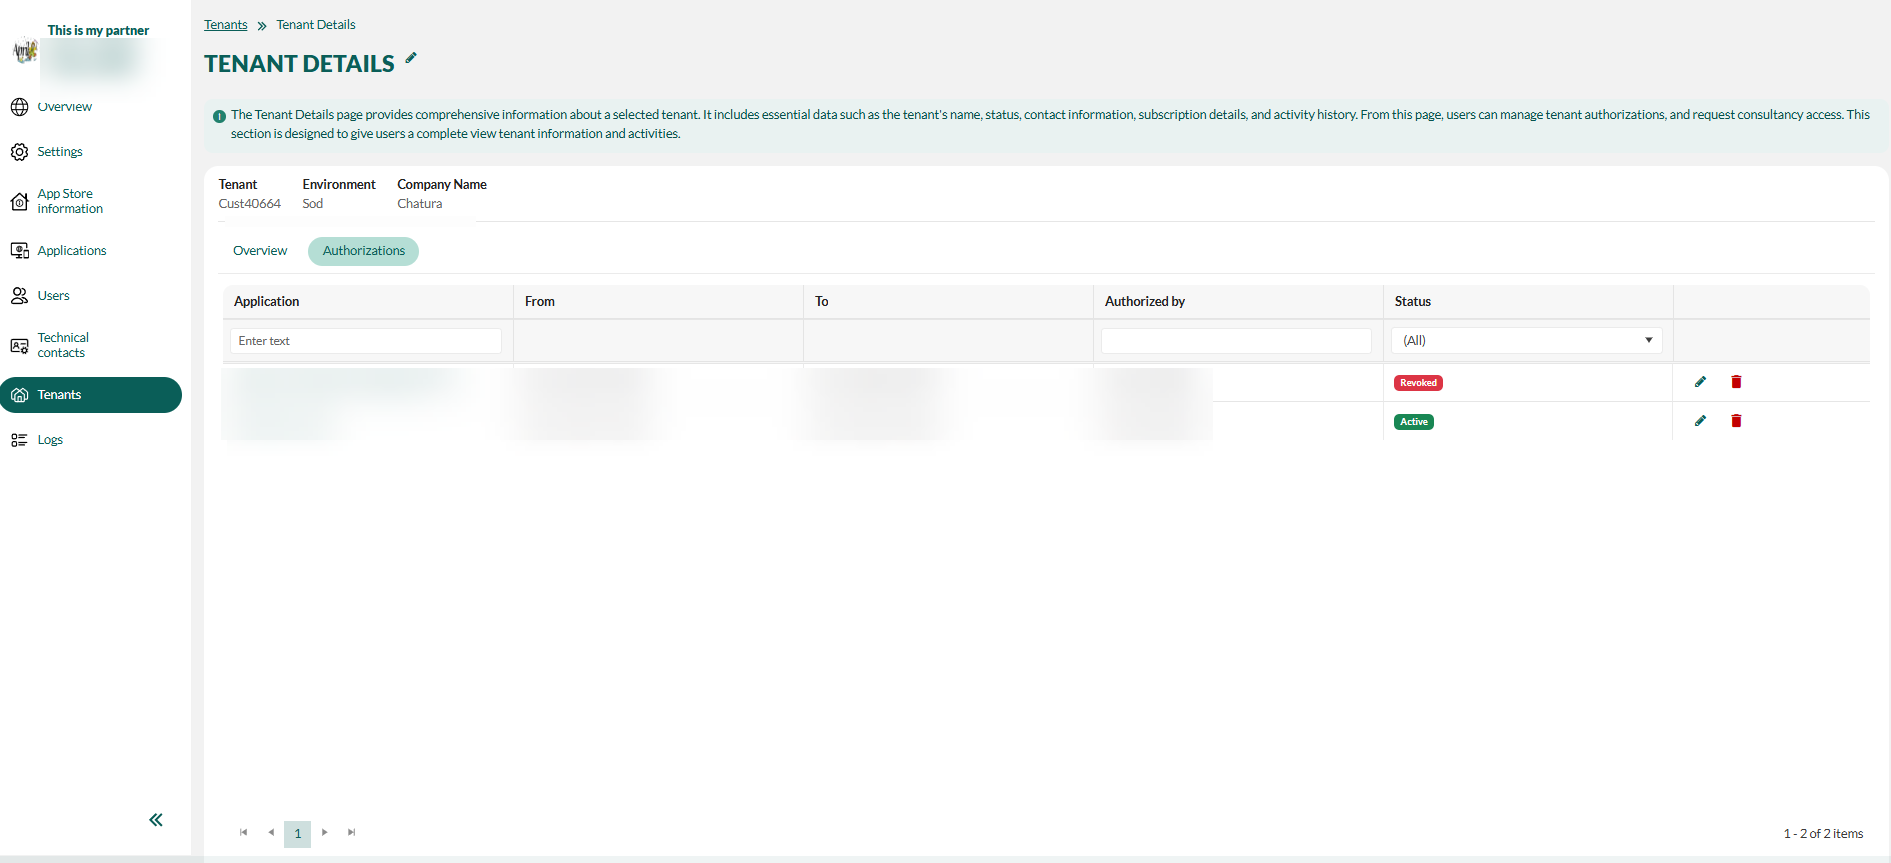
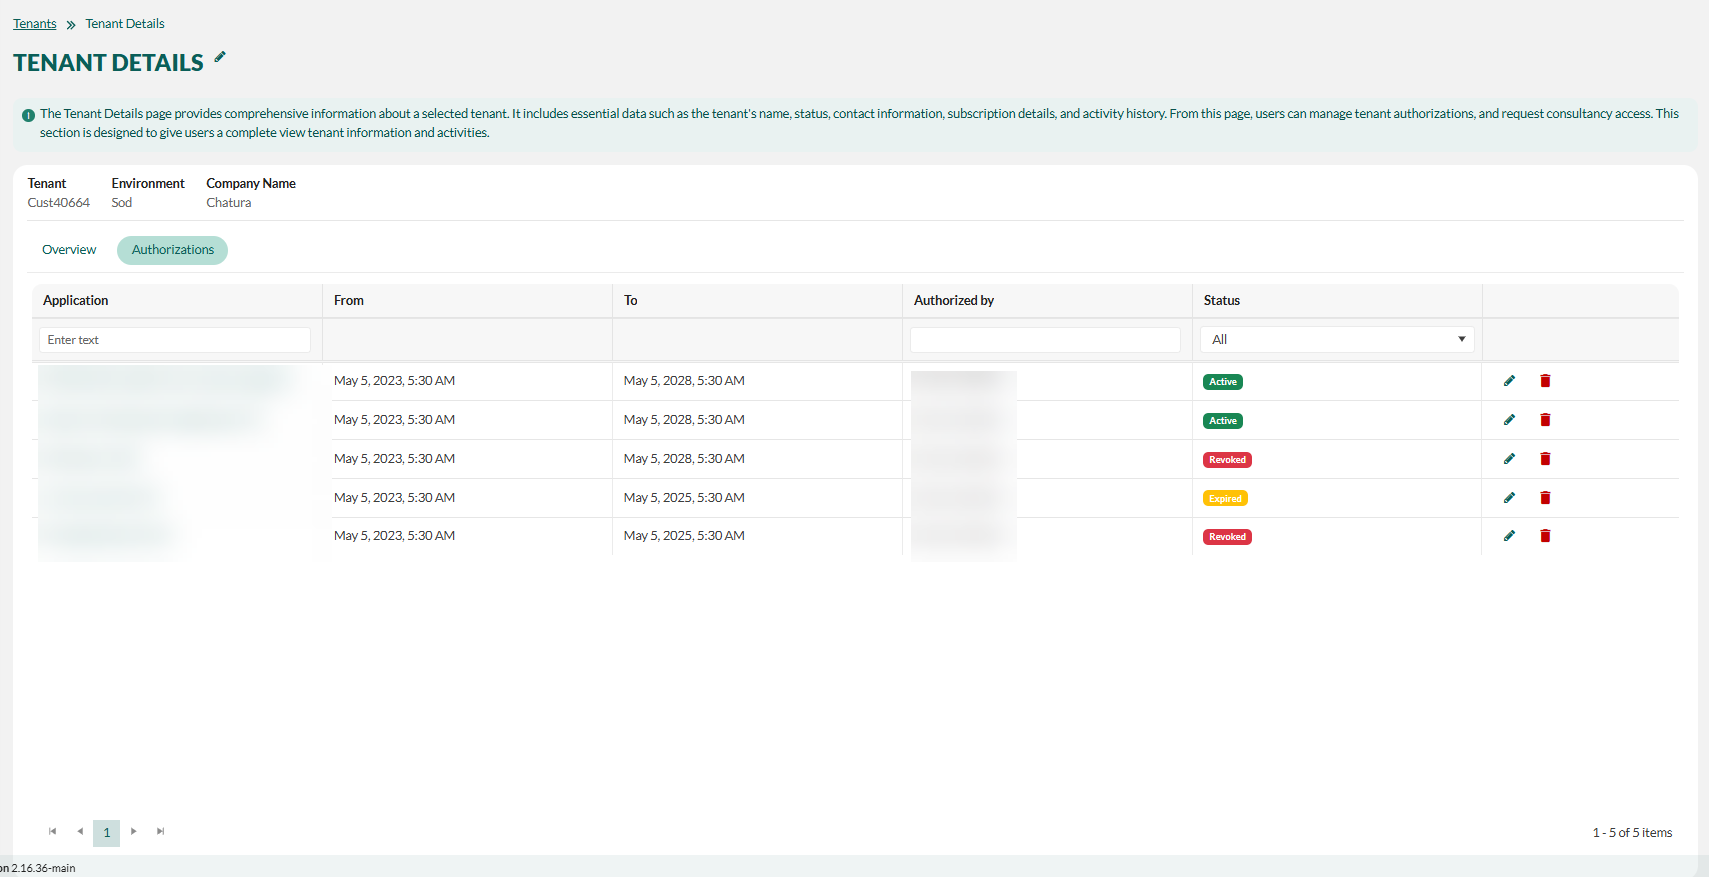
#3066 2.16: add Expired authorization status and update tenant screenshots
- Add Expired status to the authorization status table and Tenant details steps
- Correct Tenant listing description to the new Authorizations column (active/expired/revoked counts)
- Replace tenant-details and tenant-listing screenshots with live 2.16 captures

diff --git a/docs/en/developer-portal/tenants/authorization.md b/docs/en/developer-portal/tenants/authorization.md
@@ -4,7 +4,7 @@ title: Tenant authorization
 description: The Tenant Manager makes it easier to oversee and edit authorization records related to employees and tenants.
 keywords: tenant, authorization, authorize app
 author: Bergfrid Dias
-date: 07.10.2026
+date: 07.13.2026
 version_devportal: 2.16
 content_type: concept
 deployment: online
@@ -41,6 +41,7 @@ Each authorization on the **Tenant details** page has a **Status** that tells yo
 | Status | Meaning |
 |---|---|
 | **Active** | The authorization is in place and the app can access the tenant. |
+| **Expired** | The authorization's validity period has ended — the **To** date has passed. The app can no longer access the tenant until the authorization is renewed. |
 | **Revoked** | The authorization has been revoked. The connection between the app and the tenant's database is severed and the app can no longer access it. Data in the database is not removed. [Contact us][5] if you are unsure why the authorization was revoked. |
 
 To review authorization status for a tenant:
@@ -49,17 +50,17 @@ To review authorization status for a tenant:
 
 1. Select the **Authorizations** tab.
 
-1. Check the **Status** column. Use the **Status** filter above the column to show only **Revoked** or **Active** authorizations.
+1. Check the **Status** column. Each authorization is **Active**, **Expired**, or **Revoked**. Use the **Status** filter above the column to show only one status.
 
-![Tenant details Authorizations tab showing Revoked and Active status -screenshot][img4]
+![Tenant details Authorizations tab showing Active, Expired, and Revoked status -screenshot][img4]
 
-### Spot revoked authorizations on the Tenant listing
+### See authorization status on the Tenant listing
 
-You don't have to open each tenant to find revoked authorizations. The **Tenant listing** indicates any tenant that has one or more revoked app authorizations in its **Status** column, so you can spot affected customers across all your apps at a glance.
+You don't have to open each tenant to find revoked or expired authorizations. The **Tenant listing** has an **Authorizations** column that summarizes how many of a tenant's app authorizations are **active**, **expired**, and **revoked**, so you can spot affected customers across all your apps at a glance.
 
-Open a flagged tenant and go to the **Authorizations** tab to see which authorization is revoked.
+Open a tenant and go to the **Authorizations** tab to see the status of each individual authorization.
 
-![Tenant listing indicating tenants that have one or more revoked authorizations -screenshot][img5]
+![Tenant listing Authorizations column summarizing active, expired, and revoked authorizations -screenshot][img5]
 
 ## Request authorization
 